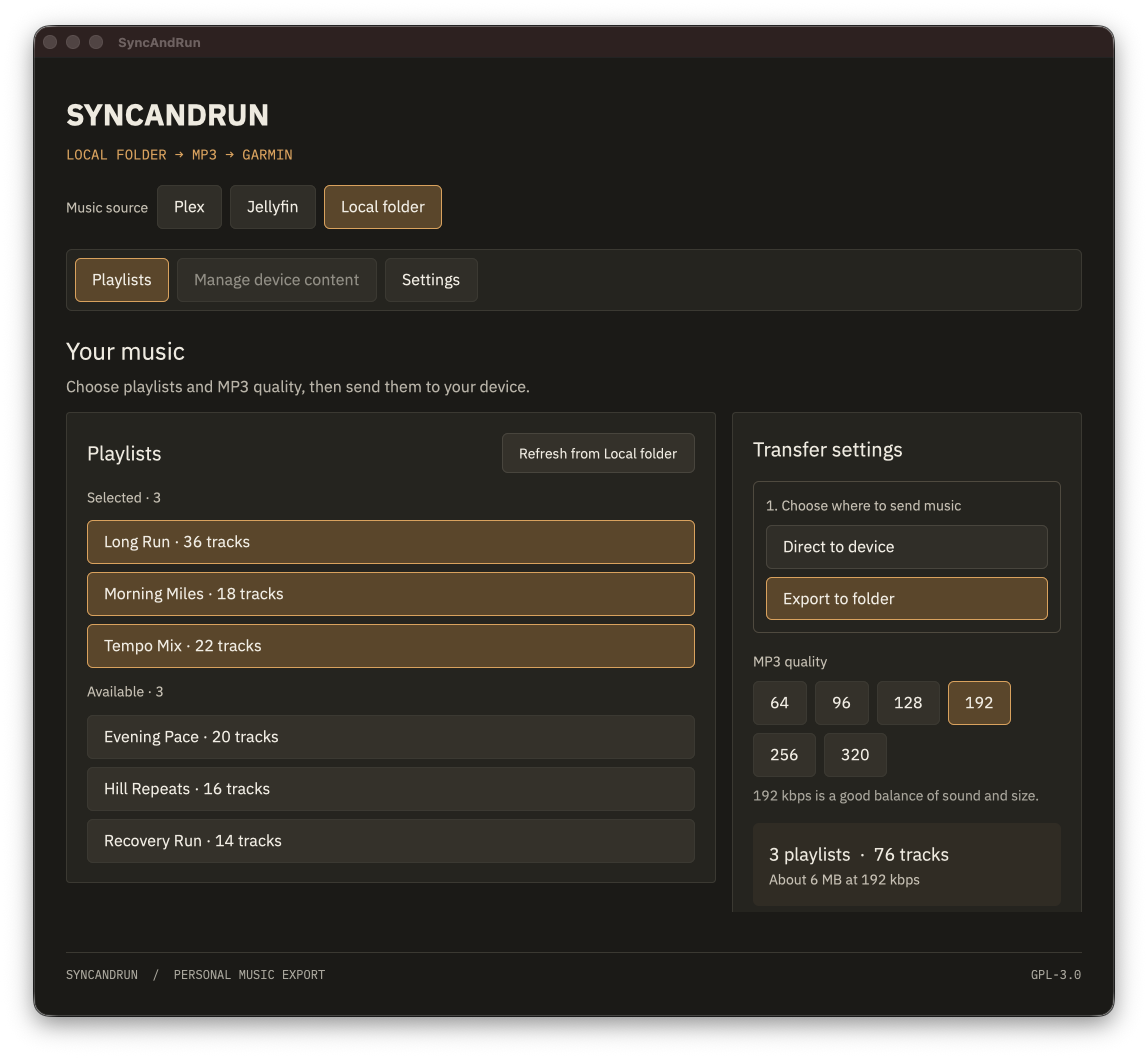
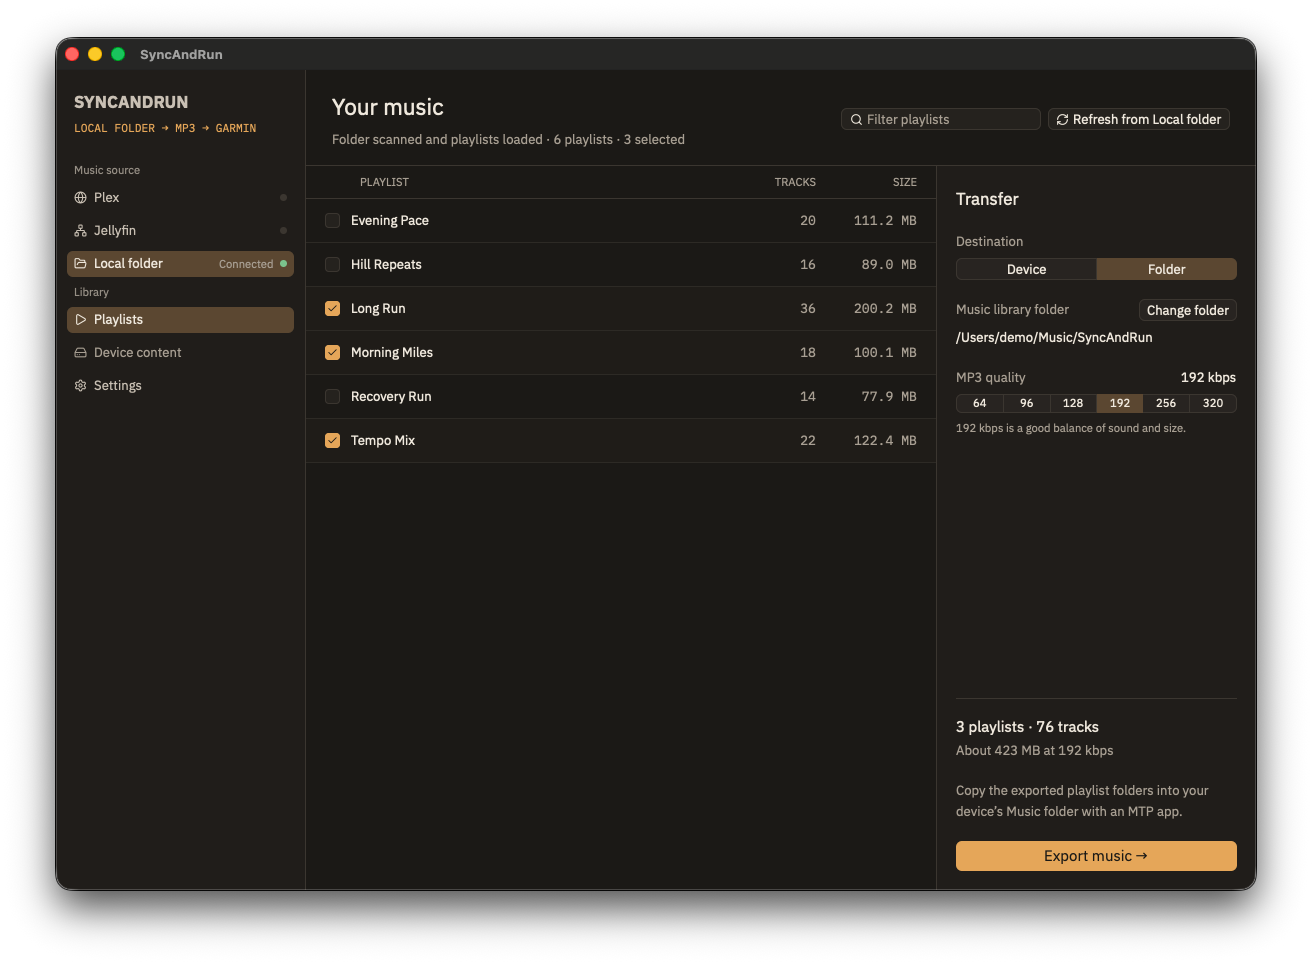
Update README screenshots for the sidebar layout (SAR-29)
Capture both views from the packaged Mac app with isolated profiles, a
fake Plex server, and generated audio.

Claude-Session: https://claude.ai/code/session_017Hnd5yWXSkdiyyuZL6CMvJ

diff --git a/README.md b/README.md
@@ -8,7 +8,7 @@ SyncAndRun moves music from Plex, Jellyfin, or a local folder to a Garmin music 
 
 ![Local folder playlists and MP3 quality](docs/screenshots/native-folder.png)
 
-These screenshots use an isolated demo profile, a fake Plex server, and generated audio. The playlist names and track counts are synthetic.
+These screenshots use an isolated demo profile, a fake Plex server, and generated audio. The playlist names, track counts, and folder path are synthetic.
 
 ## Download and install
 
